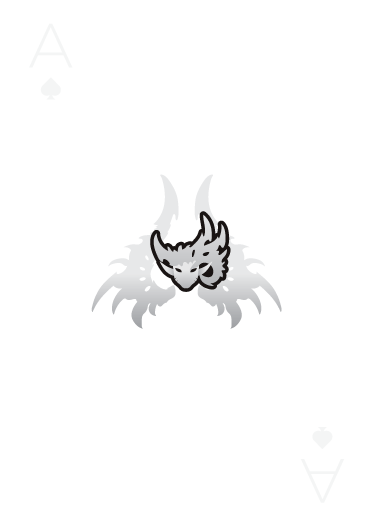
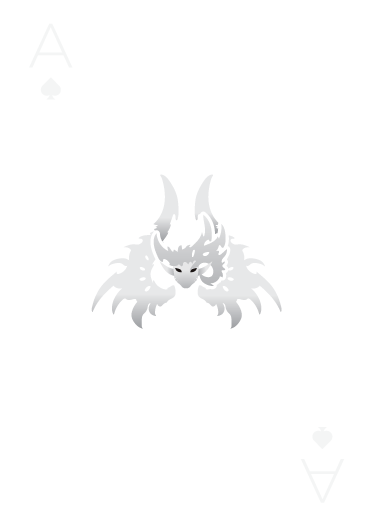
added variable and tweaked some card images

Changed region(s): [[0.2654, 0.3992, 0.7668, 0.5835]]

diff --git a/css/app.css b/css/app.css
@@ -1,2 +1,2 @@
-header{display:flex;justify-content:center;height:200px;background:url(../images/deck-packaging.png);background-repeat:no-repeat;background-size:contain;background-position:top right}@media (min-width: 768px){header{height:60vh;background-size:contain;background-position:top right}}@media (min-width: 1200px){header{height:100vh}}header h1,header h2,header h3,header h4,header h5,header h6{font-family:'Montserrat', sans-serif;margin:0}header #main-title{display:flex;justify-content:center;align-items:center;flex-direction:column}header #main-title h3{font-size:3vw;font-family:'Cinzel Decorative', cursive}header #main-title h1{font-size:7vw;font-weight:200;font-family:'Cinzel', cursive}header #main-title h5{font-size:2vw;font-style:italic;font-weight:100}main .section-odd-even{margin:0 30px;padding:60px 0;border-bottom:1px solid #2a373b}@media (min-width: 768px){main .section-odd-even{margin:0 auto;max-width:600px}}@media (min-width: 992px){main .section-odd-even{margin:0 auto;max-width:1000px}}main .section-odd-even:last-child{border:none}main .concept{max-width:800px;margin:auto}main .concept p{font-weight:100;letter-spacing:1px;font-style:italic;font-family:'Cinzel', serif;font-size:1em;text-align:center}@media (min-width: 768px){main .concept p{font-size:1.2em;text-align:justify}}main .concept p.signature{margin-top:10px;font-size:.8em;text-align:right}@media (min-width: 768px){main .concept p.signature{font-size:1em}}main .deck-preview-wrapper{max-width:800px;margin:auto}main .deck-preview-wrapper .click-to-preview h1{font-size:1em;margin:0}@media (min-width: 768px){main .deck-preview-wrapper .click-to-preview h1{font-size:1.5em}}main .deck-preview-wrapper .suit-picker{margin:20px auto 10px;display:grid;grid-template-columns:repeat(4, 1fr);grid-gap:10px}@media (min-width: 768px){main .deck-preview-wrapper .suit-picker{grid-gap:20px;margin:40px auto 10px}}@media (min-width: 1200px){main .deck-preview-wrapper .suit-picker{grid-gap:20px}}main .deck-preview-wrapper .suit-picker .single-card{background:radial-gradient(circle, rgba(255,255,255,0.2) 3%, rgba(255,255,255,0)) #181f21;position:relative;border-radius:5%;transform:perspective(750px);transition:0.1s ease;cursor:pointer}main .deck-preview-wrapper .suit-picker .single-card::after{content:'';position:absolute;left:0;top:0;width:100%;height:100%;border-radius:5%;box-shadow:0 30px 60px -8px rgba(0,0,0,0.5),0 18px 36px -10px rgba(0,0,0,0.4),0 -12px 36px -6px rgba(0,0,0,0.2);transition:.4s ease;opacity:.3}main .deck-preview-wrapper .suit-picker .single-card.unselected img{opacity:0.5}main .deck-preview-wrapper .suit-picker .card-hover{transition-duration:.1s}main .deck-preview-wrapper .suit-picker .card-hover::after{opacity:.8}main .deck-preview-wrapper .selected-arrow-wrapper{margin:auto;margin-top:-10px;display:grid;grid-template-columns:repeat(4, 1fr);grid-gap:10px;position:relative;z-index:-1}@media (min-width: 768px){main .deck-preview-wrapper .selected-arrow-wrapper{margin-top:0}}main .deck-preview-wrapper .selected-arrow-wrapper.hidden-start{display:none}main .deck-preview-wrapper .selected-arrow-wrapper .triangle{display:flex;align-items:center;justify-content:center;font-size:1.5em}@media (min-width: 768px){main .deck-preview-wrapper .selected-arrow-wrapper .triangle{font-size:2em}}@media (min-width: 992px){main .deck-preview-wrapper .selected-arrow-wrapper .triangle{font-size:3em}}main .deck-preview-wrapper .selected-arrow-wrapper .triangle>*{color:#8e8e8e}main .deck-preview-wrapper .selected-arrow-wrapper .triangle.hidden{visibility:hidden}main .deck-preview-wrapper .chosen-suit{margin:10px auto 0;display:grid;grid-template-columns:repeat(4, 1fr);grid-gap:10px}@media (min-width: 768px){main .deck-preview-wrapper .chosen-suit{margin:20px auto 0;grid-template-columns:repeat(6, 1fr);grid-gap:20px}}@media (min-width: 1200px){main .deck-preview-wrapper .chosen-suit{grid-gap:20px}}main .deck-preview-wrapper .chosen-suit.hidden{display:none}main .deck-preview-wrapper .chosen-suit.hidden-start{visibility:hidden}main .deck-preview-wrapper .chosen-suit .single-card{background:radial-gradient(circle, rgba(255,255,255,0.2) 3%, rgba(255,255,255,0)) #181f21;position:relative;border-radius:5%;transform:perspective(750px);transition:0.1s ease;cursor:pointer}main .deck-preview-wrapper .chosen-suit .single-card::after{content:'';position:absolute;left:0;top:0;width:100%;height:100%;border-radius:5%;box-shadow:0 30px 60px -8px rgba(0,0,0,0.5),0 18px 36px -10px rgba(0,0,0,0.4),0 -12px 36px -6px rgba(0,0,0,0.2);transition:.4s ease;opacity:.3}main .deck-preview-wrapper .chosen-suit .single-card.unselected img{opacity:0.5}main .deck-preview-wrapper .chosen-suit .card-hover{transition-duration:.1s}main .deck-preview-wrapper .chosen-suit .card-hover::after{opacity:.8}*{margin:0;padding:0;font-family:'Montserrat', sans-serif;color:#fff}h1,h2,h3,h4,h5,h6{text-align:center;font-family:'Montserrat', sans-serif;font-weight:100}a,i,p{margin:0}p{text-align:justify;text-justify:inter-word}ul{list-style:none;margin:0}ol{margin-bottom:0}body{background:#181f21}
+header{display:flex;justify-content:center;height:200px;background:url(../images/deck-packaging.png);background-repeat:no-repeat;background-size:contain;background-position:top right}@media (min-width: 768px){header{height:60vh;background-size:contain;background-position:top right}}@media (min-width: 1200px){header{height:100vh}}header h1,header h2,header h3,header h4,header h5,header h6{font-family:'Montserrat', sans-serif;margin:0}header #main-title{display:flex;justify-content:center;align-items:center;flex-direction:column}header #main-title h3{font-size:3vw;font-family:'Cinzel Decorative', cursive}header #main-title h1{font-size:7vw;font-weight:200;font-family:'Cinzel', cursive}header #main-title h5{font-size:3vw;font-style:italic;font-weight:100}main .section-odd-even{margin:0 30px;padding:60px 0;border-bottom:1px solid #2d3b3f}@media (min-width: 768px){main .section-odd-even{margin:0 auto;max-width:600px}}@media (min-width: 992px){main .section-odd-even{margin:0 auto;max-width:1000px}}main .section-odd-even:last-child{border:none}main .concept{max-width:800px;margin:auto}main .concept p{font-weight:100;letter-spacing:1px;font-style:italic;font-family:'Cinzel', serif;font-size:1em;text-align:center}@media (min-width: 768px){main .concept p{font-size:1.2em;text-align:justify}}main .concept p.signature{margin-top:10px;font-size:.8em;text-align:right}@media (min-width: 768px){main .concept p.signature{font-size:1em}}main .deck-preview-wrapper{max-width:800px;margin:auto}main .deck-preview-wrapper .click-to-preview h1{font-size:1em;margin:0}@media (min-width: 768px){main .deck-preview-wrapper .click-to-preview h1{font-size:1.5em}}main .deck-preview-wrapper .suit-picker{margin:20px auto 10px;display:grid;grid-template-columns:repeat(4, 1fr);grid-gap:10px}@media (min-width: 768px){main .deck-preview-wrapper .suit-picker{grid-gap:20px;margin:40px auto 10px}}@media (min-width: 1200px){main .deck-preview-wrapper .suit-picker{grid-gap:20px}}main .deck-preview-wrapper .suit-picker .single-card{background:radial-gradient(circle, rgba(255,255,255,0.2) 3%, rgba(255,255,255,0)) #181f21;position:relative;border-radius:5%;transform:perspective(750px);transition:0.1s ease;cursor:pointer}main .deck-preview-wrapper .suit-picker .single-card::after{content:'';position:absolute;left:0;top:0;width:100%;height:100%;border-radius:5%;box-shadow:0 30px 60px -8px rgba(0,0,0,0.5),0 18px 36px -10px rgba(0,0,0,0.4),0 -12px 36px -6px rgba(0,0,0,0.2);transition:.4s ease;opacity:.3}main .deck-preview-wrapper .suit-picker .single-card.unselected img{opacity:0.5}main .deck-preview-wrapper .suit-picker .card-hover{transition-duration:.1s}main .deck-preview-wrapper .suit-picker .card-hover::after{opacity:.8}main .deck-preview-wrapper .selected-arrow-wrapper{margin:auto;margin-top:-10px;display:grid;grid-template-columns:repeat(4, 1fr);grid-gap:10px;position:relative;z-index:-1}@media (min-width: 768px){main .deck-preview-wrapper .selected-arrow-wrapper{margin-top:0}}main .deck-preview-wrapper .selected-arrow-wrapper.hidden-start{display:none}main .deck-preview-wrapper .selected-arrow-wrapper .triangle{display:flex;align-items:center;justify-content:center;font-size:1.5em}@media (min-width: 768px){main .deck-preview-wrapper .selected-arrow-wrapper .triangle{font-size:2em}}@media (min-width: 992px){main .deck-preview-wrapper .selected-arrow-wrapper .triangle{font-size:3em}}main .deck-preview-wrapper .selected-arrow-wrapper .triangle>*{color:#8e8e8e}main .deck-preview-wrapper .selected-arrow-wrapper .triangle.hidden{visibility:hidden}main .deck-preview-wrapper .chosen-suit{margin:10px auto 0;display:grid;grid-template-columns:repeat(4, 1fr);grid-gap:10px}@media (min-width: 768px){main .deck-preview-wrapper .chosen-suit{margin:20px auto 0;grid-template-columns:repeat(6, 1fr);grid-gap:20px}}@media (min-width: 1200px){main .deck-preview-wrapper .chosen-suit{grid-gap:20px}}main .deck-preview-wrapper .chosen-suit.hidden{display:none}main .deck-preview-wrapper .chosen-suit.hidden-start{visibility:hidden}main .deck-preview-wrapper .chosen-suit .single-card{background:radial-gradient(circle, rgba(255,255,255,0.2) 3%, rgba(255,255,255,0)) #181f21;position:relative;border-radius:5%;transform:perspective(750px);transition:0.1s ease;cursor:pointer}main .deck-preview-wrapper .chosen-suit .single-card::after{content:'';position:absolute;left:0;top:0;width:100%;height:100%;border-radius:5%;box-shadow:0 30px 60px -8px rgba(0,0,0,0.5),0 18px 36px -10px rgba(0,0,0,0.4),0 -12px 36px -6px rgba(0,0,0,0.2);transition:.4s ease;opacity:.3}main .deck-preview-wrapper .chosen-suit .single-card.unselected img{opacity:0.5}main .deck-preview-wrapper .chosen-suit .card-hover{transition-duration:.1s}main .deck-preview-wrapper .chosen-suit .card-hover::after{opacity:.8}*{margin:0;padding:0;font-family:'Montserrat', sans-serif;color:#fff}h1,h2,h3,h4,h5,h6{text-align:center;font-family:'Montserrat', sans-serif;font-weight:100}a,i,p{margin:0}p{text-align:justify;text-justify:inter-word}ul{list-style:none;margin:0}ol{margin-bottom:0}body{background:#181f21}
 /*# sourceMappingURL=app.css.map */

diff --git a/scss/_variables-and-mixins.scss b/scss/_variables-and-mixins.scss
@@ -1,10 +1,11 @@
 /* VARIABLES */
 $text-color: #fff;
+$bg-color: #181f21;
 
 /* MIXING */
 @mixin card-3d {
 	.single-card {
-		background: radial-gradient(circle, rgba(255, 255, 255, 0.2) 3%, rgba(255, 255, 255, 0)) #181f21;
+		background: radial-gradient(circle, rgba(255, 255, 255, 0.2) 3%, rgba(255, 255, 255, 0)) $bg-color;
 		position: relative;
 		border-radius: 5%;
 		transform: perspective(750px);

diff --git a/scss/_main.scss b/scss/_main.scss
@@ -2,7 +2,7 @@ main {
 	.section-odd-even {
 		margin: 0 30px;
 		padding: 60px 0;
-		border-bottom: 1px solid #2a373b;
+		border-bottom: 1px solid lighten($bg-color, 10%);
 
 		@include mediumScreen {
 			margin: 0 auto;

diff --git a/scss/_header.scss b/scss/_header.scss
@@ -38,7 +38,7 @@ header {
 		}
 
 		h5 {
-			font-size: 2vw;
+			font-size: 3vw;
 			font-style: italic;
 			font-weight: 100;
 		}

diff --git a/scss/app.scss b/scss/app.scss
@@ -39,5 +39,5 @@ ol {
 }
 
 body {
-	background: #181f21;
+	background: $bg-color;
 }
